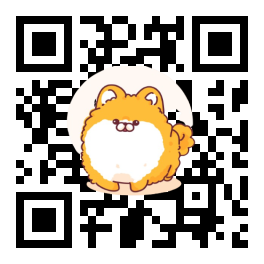
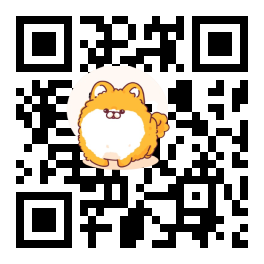
feat: 2023-07-28 0058 node.js qrcode npm test

diff --git a/test.js b/test.js
@@ -3,6 +3,7 @@ const fs = require('fs');
 const Jimp = require('jimp');
 
 const dataToEncode = 'Hello, World2222!'; // QR 코드로 인코딩할 데이터
+// const dataToEncode = 'https://www.google.com/search?sxsrf=AB5stBgqYqSDGAcrbGoj2gGevoXdBTss1g:1690467621264&q=React-qrcode-logo&sa=X&ved=2ahUKEwjkiMfQiq-AAxUJQPUHHdMpAyQQ1QJ6BAgKEAE&cshid=1690467629205046&biw=2560&bih=1297&dpr=1#imgrc=k8YGRFWBK3PqcM&imgdii=75oququImrf1HM'; // QR 코드로 인코딩할 데이터
 
 // QR 코드 옵션 설정
 const options = {
@@ -45,11 +46,12 @@ async function applyDesignToQRCode() {
 
     // QR 코드 이미지의 크기에 맞게 배경 이미지를 리사이즈
     backgroundImage.resize(
-      qrCodeImage.bitmap.width / 2,
-      qrCodeImage.bitmap.height / 2
+      qrCodeImage.bitmap.width / 2.5,
+      qrCodeImage.bitmap.height / 2.5
     );
 
     // 배경 이미지가 보이지만, 카메라가 QR Code로 인식을 못함
+    // 이미지의 크기를 QR Code 데이터를 읽을 수 있는 정도로 사이즈를 조절해야 한다.
     // QR 코드 이미지와 배경 이미지를 합성하여 디자인 적용
     // qrCodeImage.composite(backgroundImage, 0, 0);
     qrCodeImage.composite(
